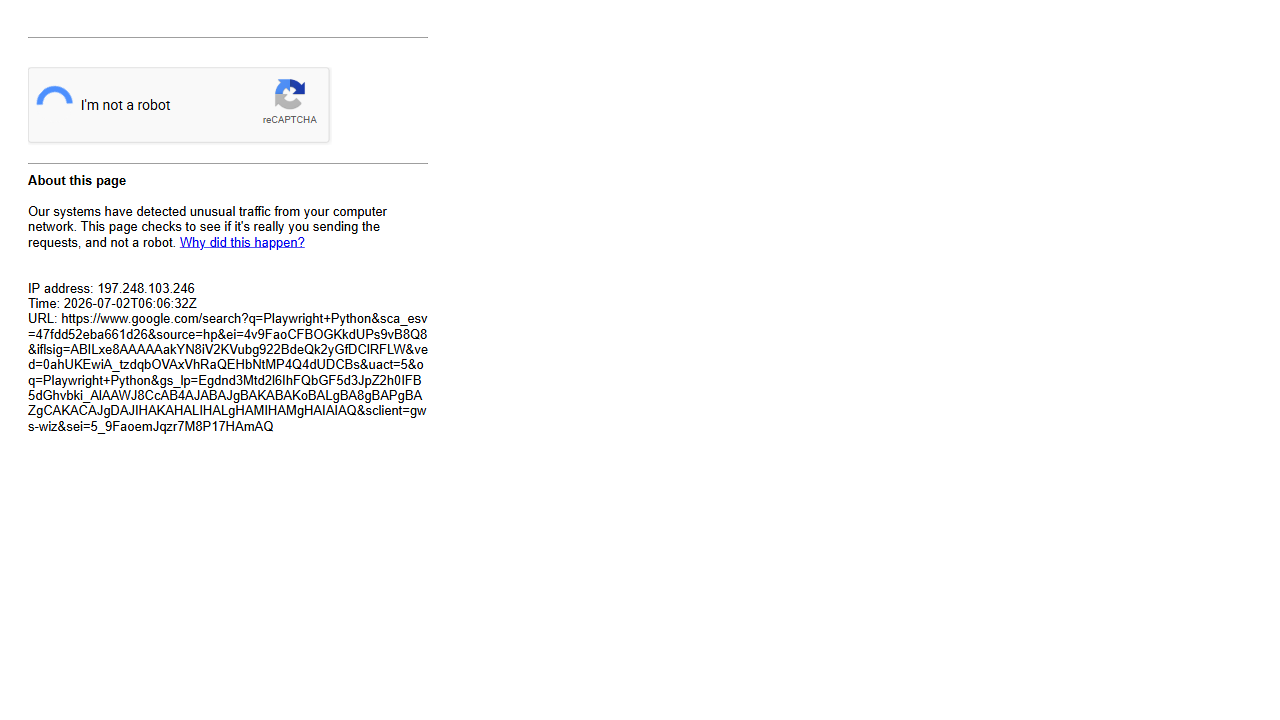
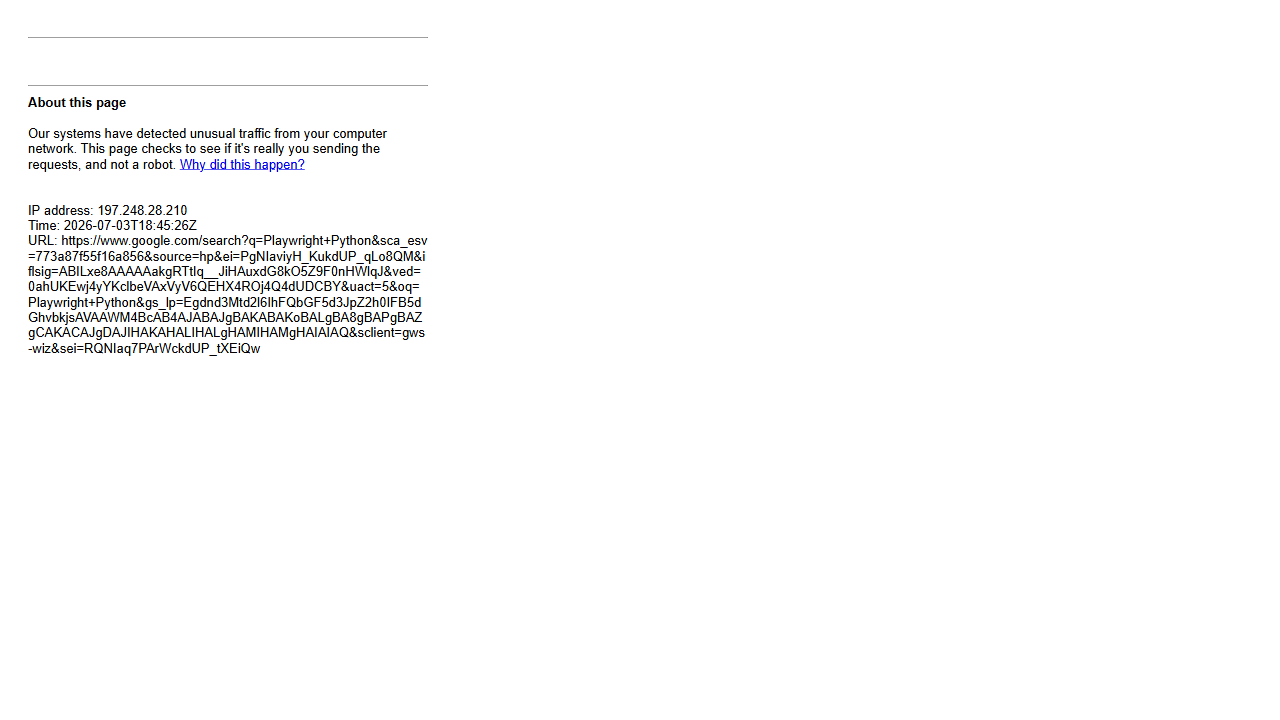
Implemented quote scraper with author filtering

Changed region(s): [[0.0, 0.0917, 0.3438, 0.6111], [0.0, 0.1222, 0.125, 0.1528]]

diff --git a/quotescrapper.py b/quotescrapper.py
@@ -2,25 +2,41 @@ from controller import BrowserController
 class QuoteScraper:
     def __init__(self):
         self.controller=BrowserController()
+        self.quotes=[]
     def qoutes(self):
         self.controller.goto("https://quotes.toscrape.com/")
         self.controller.get_text(".quote")
         quote=self.controller.get_all(".text")
         author=self.controller.get_all(".author")
-        s=[]
+       
         for i in range(len(quote)):
-            s.append({"quote":quote[i],
+            self.quotes.append({"quote":quote[i],
                     "author":author[i]})
             
-        print(s)
-        self.controller.close()
+        print(self.quotes)
+
         
-        return s
+        return self.quotes
     def FindByAuthor(self,author):
-        self.controller.get_by_text(author,".author")
-        self.controller.close()
+        
+        print(f"{author} quotes:")
+        authorquote=[]
+        for a in self.quotes:
+                
+                
+                if author in a["author"]:
+                    
+                    authorquote.append(a["quote"])
+                    
+        for b in authorquote:
+            print("-",b)
+        
+        return authorquote
+    def close (self):
+        return self.controller.close()
 
 quotest=QuoteScraper()
 quotest.qoutes()
 result=quotest.FindByAuthor("Albert")
-print(result)
+
+quotest.close()
